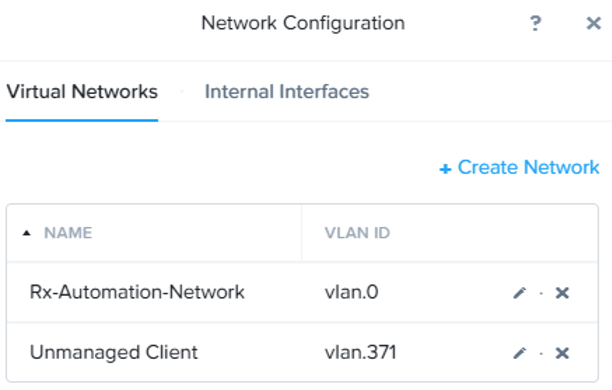
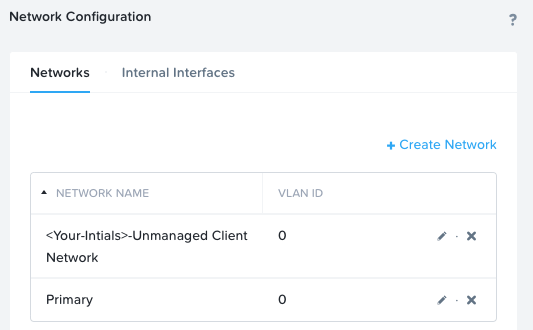
1304

diff --git a/examplelab4/examplelab4.rst b/examplelab4/examplelab4.rst
@@ -60,11 +60,13 @@ Building a Windows Virtual Machine
    * **Select Add New NIC**
       - VLAN Name – **<Your-Intials>-Unmanaged Client Network**
       - Select **Add**
-This will add a single virtual NIC to the VM on the selected Virtual  Network
+
+   This will add a single virtual NIC to the VM on the selected Virtual  Network
 
 #. Click **Save** to create the VM.
 
    .. note::
+
     At the following URL you can find the supported Operating Systems: https://portal.nutanix.com/page/documents/compatibility-matrix/guestos
 
 #. Select the VM, then click **Power On** from the list of action links (below the table) to turn on the VM.
@@ -104,13 +106,16 @@ In this exercise you will create a CentOS VM from an existing, pre-installed dis
    * **Number of Cores per vCPU** - 1
    * **Memory** - 4 GiB
    * Select **+ Add New Disk**
+
      - **Type** – Disk
      - **Operation** - Clone from Image Service
      - **Image** – CentOS
      - Select **Add**
      - Boot Configuration
      - Leave the default selected **Legacy Boot**
+     
    * Select **Add New NIC**
+
      - **VLAN Name** - Unmanaged
      - Select **Add**
 

diff --git a/configure_mssql/configure_mssql.rst b/configure_mssql/configure_mssql.rst
@@ -82,7 +82,7 @@ Era is distributed as a virtual appliance that can be installed on either AHV or
 #. Login using the following credentials:
 
    - **Username** - admin
-   - **Password** - `<CLUSTER-PASSWORD>`
+   - **Password** - **Password** - shown in your HPOC `Lookup <http://10.42.8.58:8090/>`_ as **Nutanix Password**
 
 #. From the dropdown menu, select **Administration**.
 
@@ -144,7 +144,7 @@ You must meet the following Era requirements before you register a SQL Server da
 
 #. Click **+ Register > Microsoft SQL Server > Single Node Server VM** and fill out the following fields:
 
-   - **IP Address or Name of VM** - *UserXX*\ **-MSSQLSourceVM**
+   - **IP Address or Name of VM** - *User01*\ **-MSSQLSourceVM**
    - **Windows Administrator Name** - Administrator
    - **Windows Administrator Password** - Nutanix/4u
    - **Instance** - MSSQLSERVER (This should auto-populate after providing credentials)

diff --git a/examplelab2/examplelab2.rst b/examplelab2/examplelab2.rst
@@ -20,8 +20,8 @@ In this exercise you will work individually to add a local (i.e. non-domain) use
 
 #. Use the data below to complete the fields in the **Create User** window:
 
-   - Field: **Value**
-   - Username: **Your first name**
+   - Username: **Your user name**
+   - First Name: **Your first name**
    - Last Name: **Your last name**
    - Email: **Your email address**
    - Password: **Use your full name with first letter capitalized and add /4u, eg:  Johnsmith/4u**

diff --git a/examplelab3/examplelab3.rst b/examplelab3/examplelab3.rst
@@ -24,7 +24,7 @@ In this exercise you will create an unmanaged network.
 
    * Name: **<Your-Intials>-Unmanaged Client Network**
 
-   * VLAN ID: **<Refer to Cluster Configuration Information>**
+   * VLAN ID: **0**
 
    * Enable IP address Management: **Leave unchecked**
 
